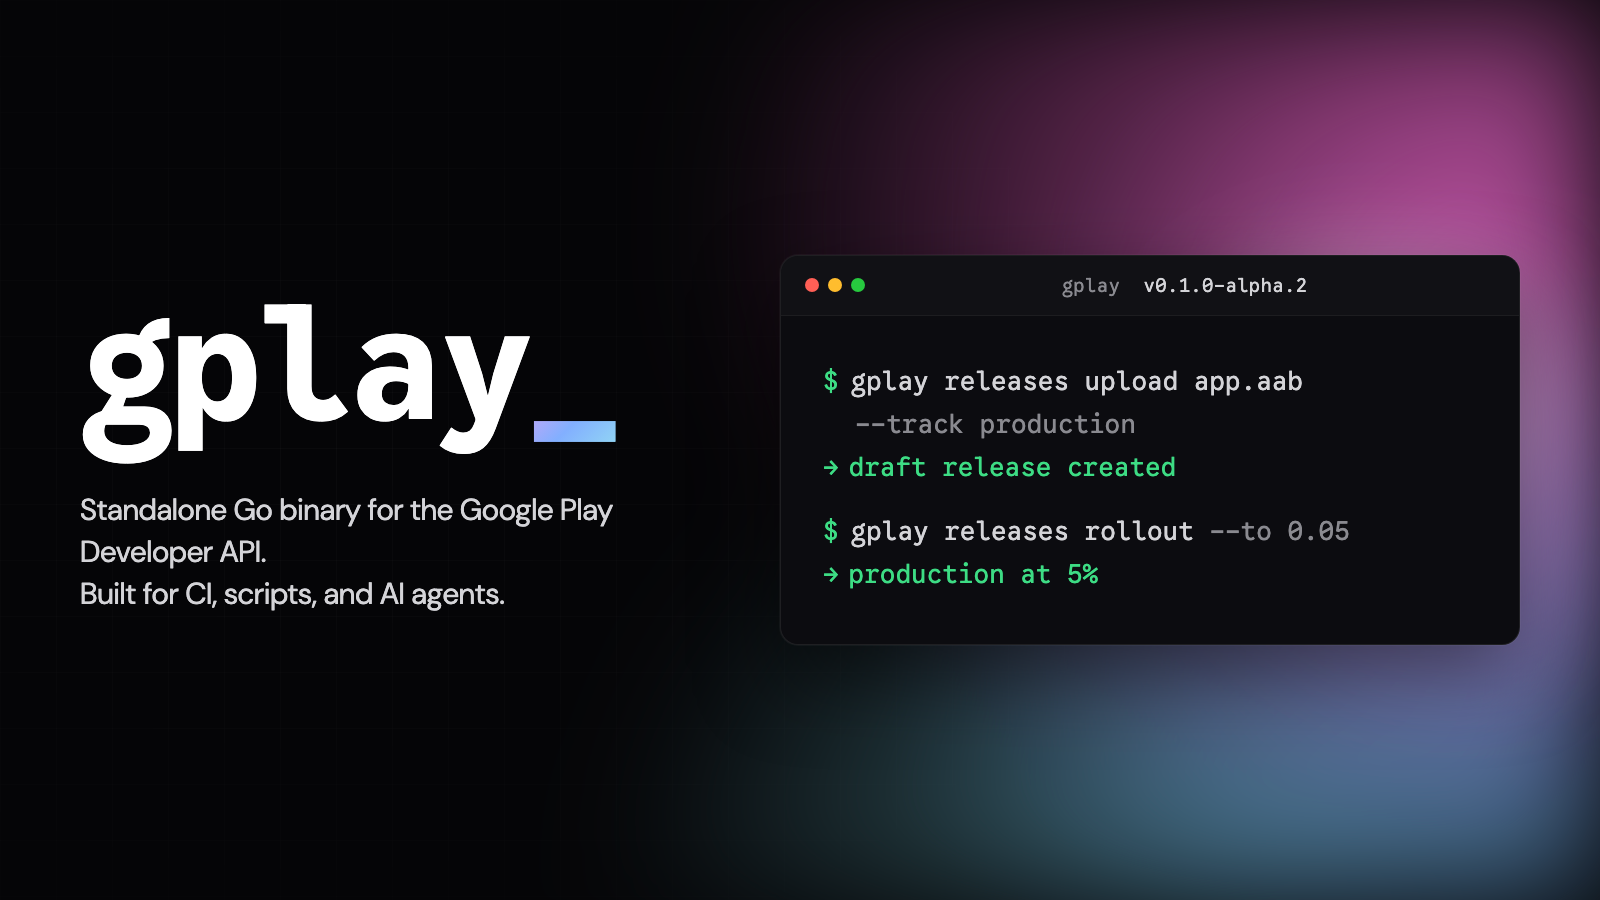
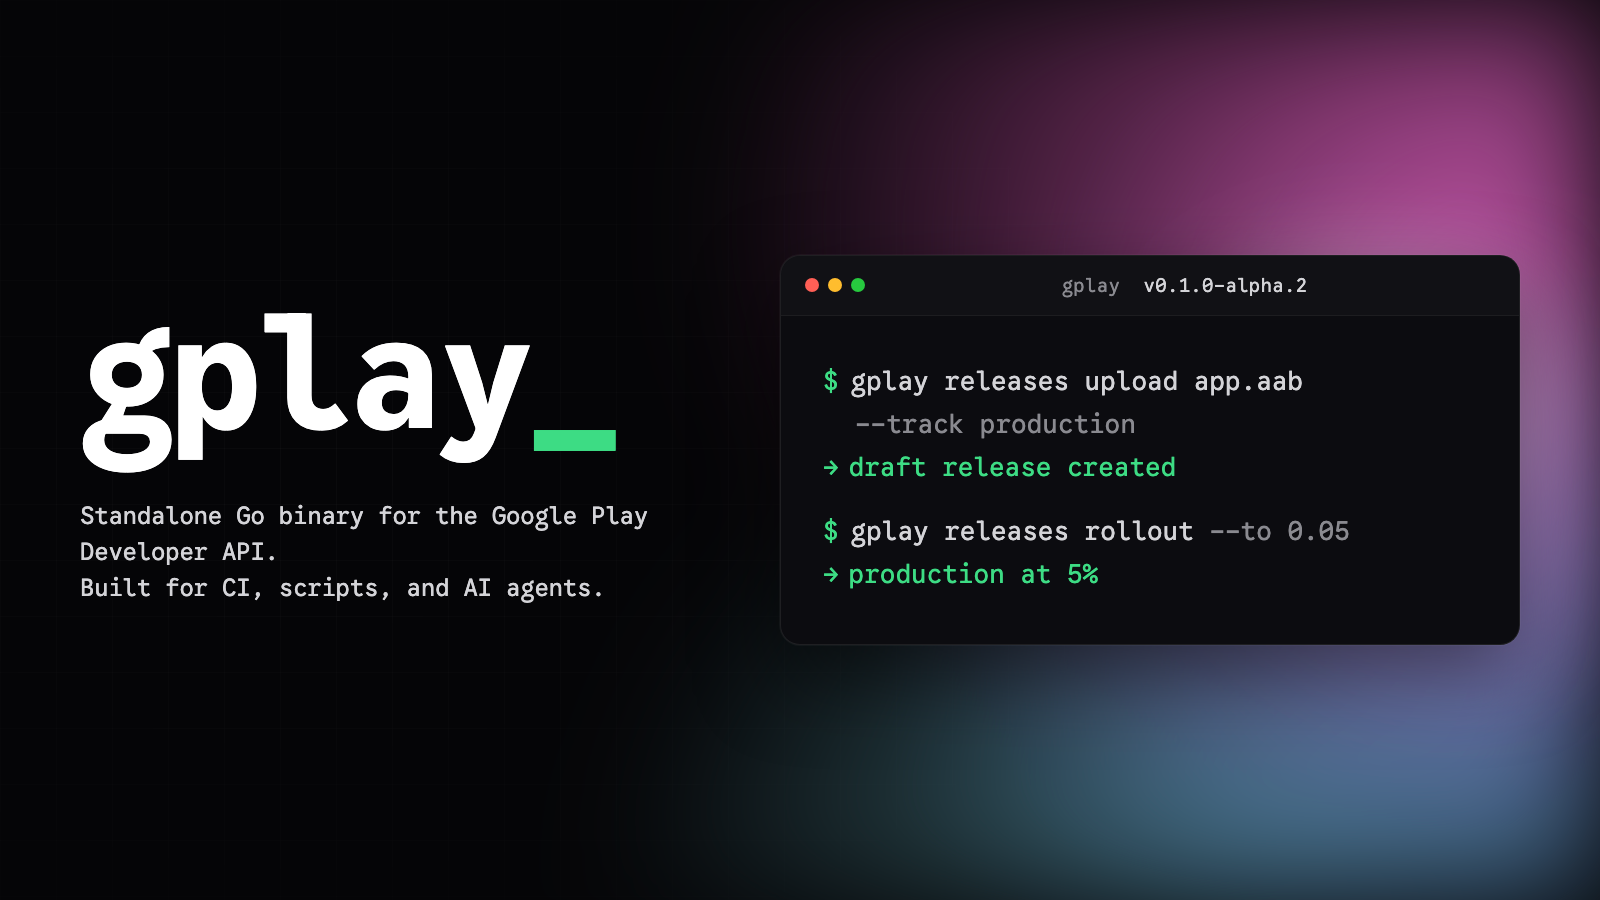
docs(marketing): regenerate header after impeccable audit
Refresh of the public README hero card following the impeccable
brand-register audit. Three concrete fixes:

- Underscore accent: gradient-clip-text (absolute-ban — decorative
  gradient text) → solid Android green. More committed, reads cleaner
  at small sizes (X timeline preview at 600px).
- Tagline font: DM Sans (reflex-reject list — training-data default)
  → Google Sans Code. Mono-only family across the visual now, with
  hierarchy via weight + size. Tighter type, more deliberate.
- Terminal corner radius: 18px → 20px (cross-design unification rule).

Identity unchanged: wordmark Google Sans Code 156/700, iridescent
bugdroid gradient right, version in terminal title bar, "draft release
created" + "production at 5%" demo.

Changed region(s): [[0.0312, 0.56, 0.4062, 0.6844], [0.0312, 0.3422, 0.4062, 0.5289], [0.1562, 0.3111, 0.1875, 0.3733]]

diff --git a/docs/marketing/visuals/header.html b/docs/marketing/visuals/header.html
@@ -33,7 +33,7 @@
   <title>gplay — header card</title>
   <link rel="preconnect" href="https://fonts.googleapis.com">
   <link rel="preconnect" href="https://fonts.gstatic.com" crossorigin>
-  <link href="https://fonts.googleapis.com/css2?family=DM+Sans:opsz,wght@9..40,400;9..40,500&family=Google+Sans+Code:wght@400;500;700&display=swap" rel="stylesheet">
+  <link href="https://fonts.googleapis.com/css2?family=Google+Sans+Code:wght@400;500;700&display=swap" rel="stylesheet">
   <style>
     /* ---- Android bugdroid iridescent palette ----
        Pearl whites for the catch-light, magenta dominant in the body,
@@ -59,7 +59,7 @@
       height: 900px;
       overflow: hidden;
       background: var(--bg);
-      font-family: 'DM Sans', -apple-system, BlinkMacSystemFont, sans-serif;
+      font-family: 'Google Sans Code', 'JetBrains Mono', monospace;
     }
 
     .card {
@@ -145,29 +145,25 @@
       color: var(--ink);
     }
 
-    /* Iridescent gradient on the underscore — the only colored element */
+    /* Underscore is the only colored element — solid Android green.
+       Was a gradient-clip-text in v0 (absolute-ban per impeccable
+       audit). Solid is more committed and reads cleaner at small
+       sizes (X timeline preview). */
     .wordmark .accent {
-      background: linear-gradient(
-        135deg,
-        rgb(var(--magenta))   0%,
-        rgb(var(--pink))     22%,
-        rgb(var(--lavender)) 45%,
-        rgb(var(--blue))     70%,
-        rgb(var(--cyan))    100%
-      );
-      -webkit-background-clip: text;
-              background-clip: text;
-      color: transparent;
+      color: var(--green);
     }
 
+    /* Tagline mono-unified post-audit (DM Sans was on the reflex-reject
+       list). Smaller font + tighter line-height compensates for mono's
+       wider rhythm, so 24px reads roughly like 30px proportional did. */
     .tagline {
-      font-family: 'DM Sans', sans-serif;
-      font-size: 30px;
+      font-family: 'Google Sans Code', monospace;
+      font-size: 24px;
       font-weight: 400;
-      line-height: 1.4;
+      line-height: 1.5;
       color: var(--ink-soft);
-      max-width: 580px;
-      letter-spacing: -0.4px;
+      max-width: 640px;
+      letter-spacing: -0.2px;
     }
 
     /* ---- Right: terminal ---- */
@@ -178,7 +174,7 @@
       z-index: 1;
       background: #0c0c10;
       border: 1px solid rgba(255,255,255,0.08);
-      border-radius: 18px;
+      border-radius: 20px;          /* unified across all visuals (audit) */
       overflow: hidden;
       box-shadow:
         0 0 0 1px rgba(255,255,255,0.04),
